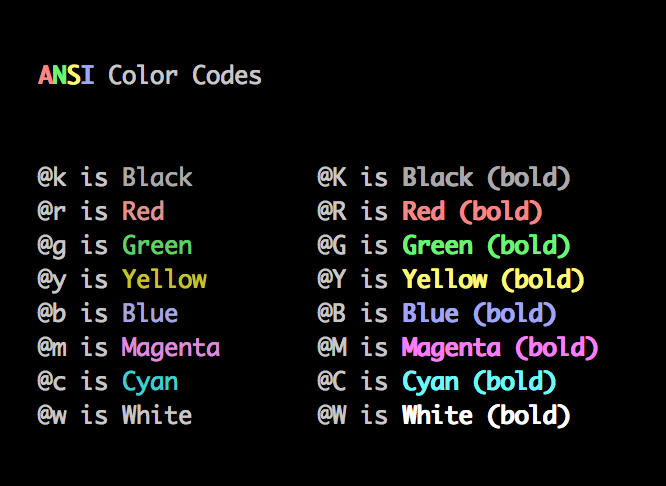
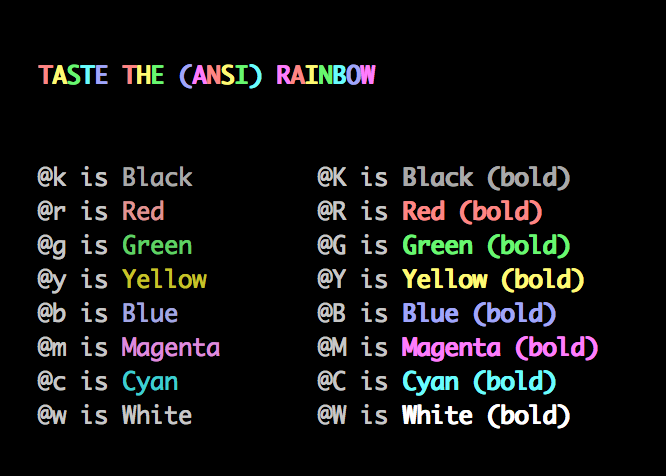
RAINBOW mode
Take that, Tennessee, Mississippi and North Carolina!

Changed region(s): [[0.4505, 0.3235, 0.9009, 0.9118], [0.03, 0.3235, 0.3303, 0.9118], [0.0601, 0.1176, 0.5706, 0.2059]]

diff --git a/printf.go b/printf.go
@@ -38,7 +38,7 @@ var (
 		"W": "01;37", // white (BOLD)
 	}
 
-	re = regexp.MustCompile(`@[kKrRgGyYbBmMpPcCwW]{.*?}`)
+	re = regexp.MustCompile(`@[kKrRgGyYbBmMpPcCwW*]{.*?}`)
 )
 
 var colorable = isatty.IsTerminal(os.Stdout.Fd())
@@ -47,6 +47,15 @@ func colorize(s string) string {
 	return re.ReplaceAllStringFunc(s, func (m string) string {
 		if !colorable {
 			return m[3:len(m)-1]
+		}
+		if m[1:2] == "*" {
+			rainbow := "RYGCBM"
+			s := "";
+			for i, c := range m[3:len(m)-1] {
+				j := i%len(rainbow)
+				s += "\033[" + colors[ rainbow[j:j+1] ] + "m" + string(c) + "\033[00m"
+			}
+			return s
 		}
 		return "\033[" + colors[m[1:2]] + "m" + m[3:len(m)-1] + "\033[00m"
 	})

diff --git a/printf_test.go b/printf_test.go
@@ -38,6 +38,8 @@ func TestColorizer(t *testing.T) {
 		{"@k{black} and @r{red}", "\033[00;30mblack\033[00m and \033[00;31mred\033[00m"},
 		{"error: @R{%s}", "error: \033[01;31m%s\033[00m"},
 
+		{"@*{RAINBOW}", "\033[01;31mR\033[00m\033[01;33mA\033[00m\033[01;32mI\033[00m\033[01;36mN\033[00m\033[01;34mB\033[0m\033[01;37mO\033[00m\033[01;31mW\033[00m"},
+
 		{"@s@d@l@f", "@s@d@l@f"},
 		{"host error: %s", "host error: %s"},
 	}

diff --git a/docs/printall.go b/docs/printall.go
@@ -3,7 +3,7 @@ package main
 import "github.com/jhunt/ansi"
 
 func main() {
-	ansi.Printf("\n\n\n  @R{A}@G{N}@Y{S}@B{I} Color Codes\n\n\n")
+	ansi.Printf("\n\n\n  @*{TASTE THE (ANSI) RAINBOW}\n\n\n")
 	var colors = []struct {
 		Regular string
 		Bold string

diff --git a/README.md b/README.md
@@ -49,6 +49,9 @@ The colorizing formatting codes all look like this:
   @w is White         @W is White (bold)
 ```
 
+You can now also activate super-awesome RAINBOW mode with
+`@*{...}`
+
 Contributing
 ------------
 
